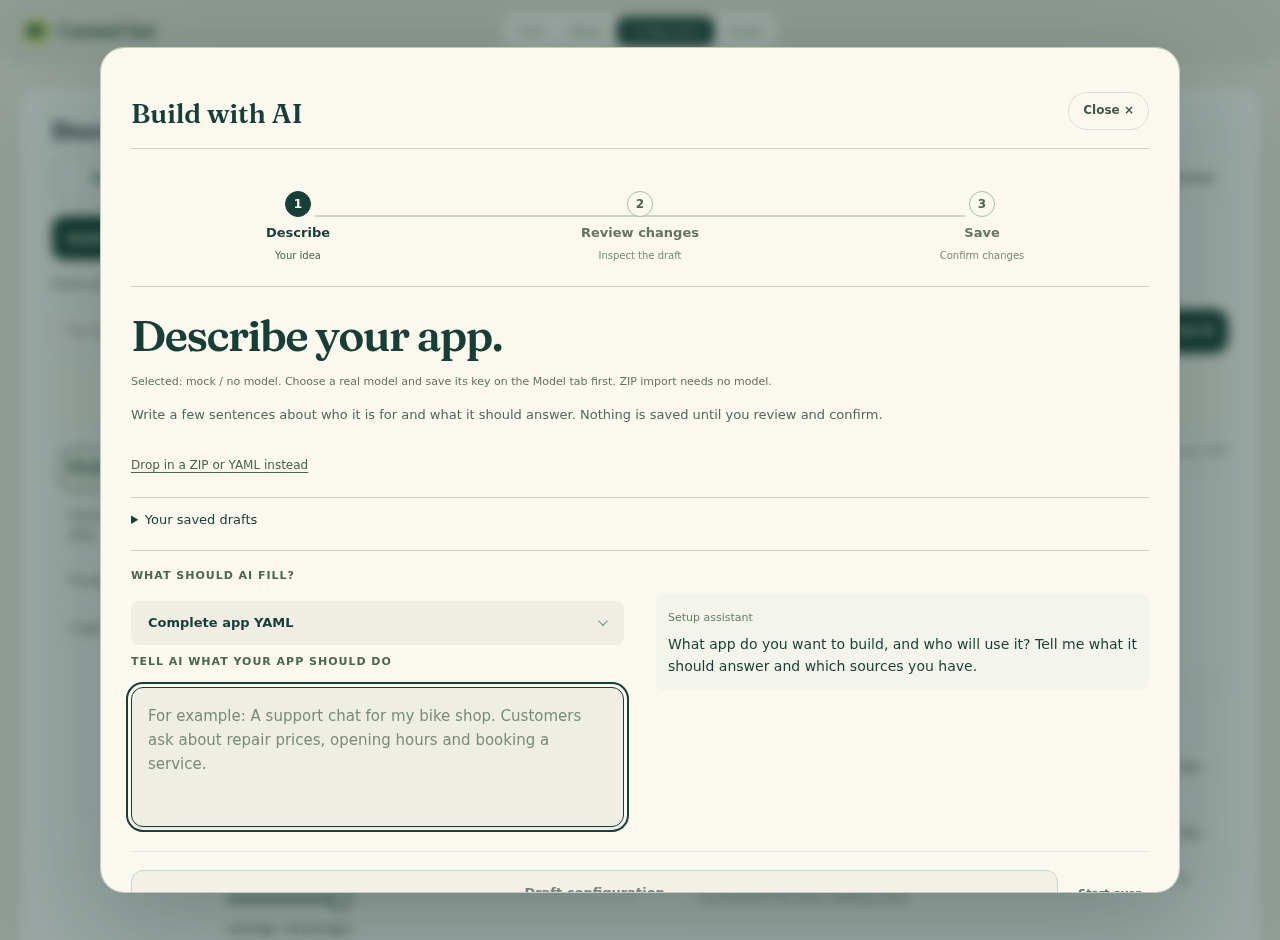
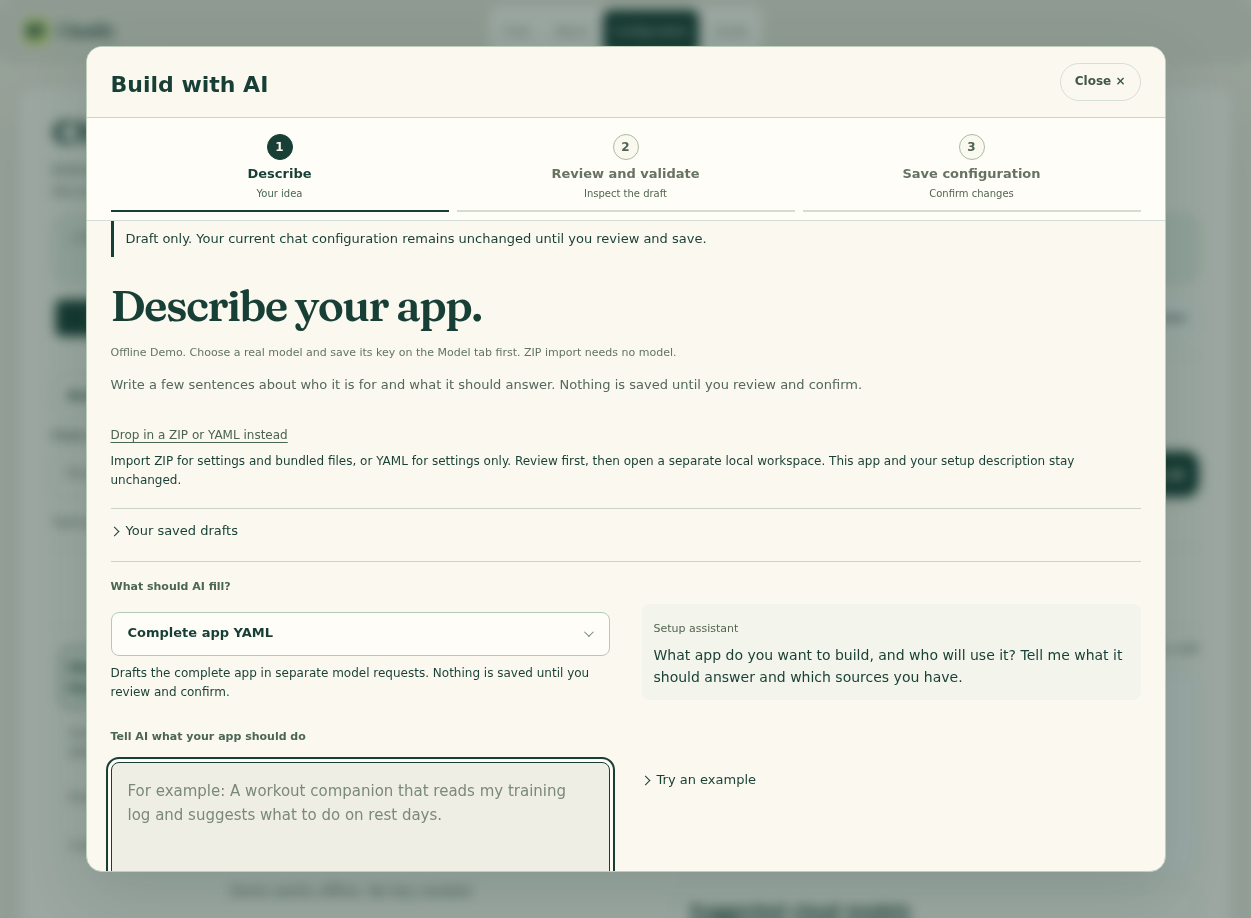
Release 0.2.1 with Chatify screenshots and docs

diff --git a/tests/test_core.py b/tests/test_core.py
@@ -141,7 +141,7 @@ class Http(unittest.TestCase):
     def test_flow(self):
         self.assertEqual(self.call("/api/health")[0], 200)
         code, body = self.call("/")
-        self.assertIn(b"Docs Chat", body)
+        self.assertIn(b"Chatify", body)
         code, body = self.call("/api/ask", {"question": "What is Chatify?"})
         r = json.loads(body); self.assertEqual(code, 200); self.assertIn("[1]", r["answer"])
         self.assertEqual(len(json.loads(self.call("/api/turns?chat=" + r["chat"])[1])), 1)

diff --git a/chatify/__init__.py b/chatify/__init__.py
@@ -1,2 +1,2 @@
 """Chatify: build a chat application over any evidence source from one YAML file."""
-__version__ = "0.2.0"
+__version__ = "0.2.1"

diff --git a/start_local.py b/start_local.py
@@ -6,7 +6,7 @@ import subprocess
 import sys
 import venv
 
-VERSION = '0.2.0'
+VERSION = '0.2.1'
 
 
 def main(args=None):

diff --git a/README.md b/README.md
@@ -4,7 +4,7 @@ A chat app for your documents. Ask a question, follow the citations, and keep th
 
 It starts in offline Demo mode, with no API key or paid calls. Demo uses built-in answers, not a live AI model.
 
-![Chatify answering a question with sources in offline Demo mode](https://raw.githubusercontent.com/Harsh23Kashyap/chatify/v0.1.27/docs/screenshots/chat.png)
+![Chatify answering a question with sources in offline Demo mode](https://raw.githubusercontent.com/Harsh23Kashyap/Chatify/main/docs/screenshots/chat.png)
 
 ## Install and start
 
@@ -28,7 +28,7 @@ For help, type in **Find a setting** or open **Guide**. **Ask AI** asks your sel
 
 **Build with AI** drafts a setup from your description. Choose a provider and model first, describe the app, then review, validate and save the draft. Restart to apply it. Generated code does not run automatically. Model requests may cost money.
 
-![Build with AI describe step with an example prompt](https://raw.githubusercontent.com/Harsh23Kashyap/chatify/v0.1.27/docs/screenshots/build-with-ai.png)
+![Build with AI describe step with an example prompt](https://raw.githubusercontent.com/Harsh23Kashyap/Chatify/main/docs/screenshots/build-with-ai.png)
 
 Keep keys out of YAML and Git. Check sources for important answers; citations are not a guarantee of correctness.
 

diff --git a/docs/ROUNDS.md b/docs/ROUNDS.md
@@ -208,7 +208,7 @@ Logo upload with in-browser plain-background removal and feathered edges (shrunk
 ## Pass 26 (from B2's critique of passes 24-25)
 - Related questions stack one per line, wrap, and align to the answer edge instead of running off the right side.
 - Citation markers [1] [2] have a small gap.
-- Three real agents run end to end on gpt-6-luna: Docs Chat (local files), Acme Support (help-center files with a support prompt), Nutrition Evidence (live PubMed). Results in the report to B2.
+- Three real agents run end to end on gpt-6-luna: Chatify (local files), Acme Support (help-center files with a support prompt), Nutrition Evidence (live PubMed). Results in the report to B2.
 
 ## Pass 27
 - Copy / Helpful / More row text now starts at the same left edge as the Related questions (the first button lost its 9px inset).

diff --git a/CHANGELOG.md b/CHANGELOG.md
@@ -1,3 +1,7 @@
+## 0.2.1 - Chatify screenshots and docs
+
+README screenshots retaken from the renamed app, demo workspace now titled Chatify, and remaining docs references updated.
+
 ## 0.2.0 - Chatify
 
 CustomChat is now Chatify. The PyPI package is `chatify-app` (`pip install chatify-app`, `uvx chatify`), the command is `chatify`, and the repo is github.com/Harsh23Kashyap/Chatify. Old `customchat` / `customchat-app` commands keep working as aliases, and the old `CUSTOMCHAT_DB_URL`, `CUSTOMCHAT_CONFIG` and `CUSTOMCHAT_INSTALL_SOURCE` environment variables are still read as fallbacks.

diff --git a/docs/MOTION_AUDIT.md b/docs/MOTION_AUDIT.md
@@ -7,7 +7,7 @@ Built 80, partial 11 (eased), n/a 10, dropped 4 (owner approved), of 105.
 | # | Item | Status |
 |---|---|---|
 | 1 | Chat canvas entrance | built |
-| 2 | “Docs Chat” title | built |
+| 2 | “Chatify” title | built |
 | 3 | Example question rows | built |
 | 4 | Example-question chevron | built |
 | 5 | Empty-state breathing hierarchy | built |
